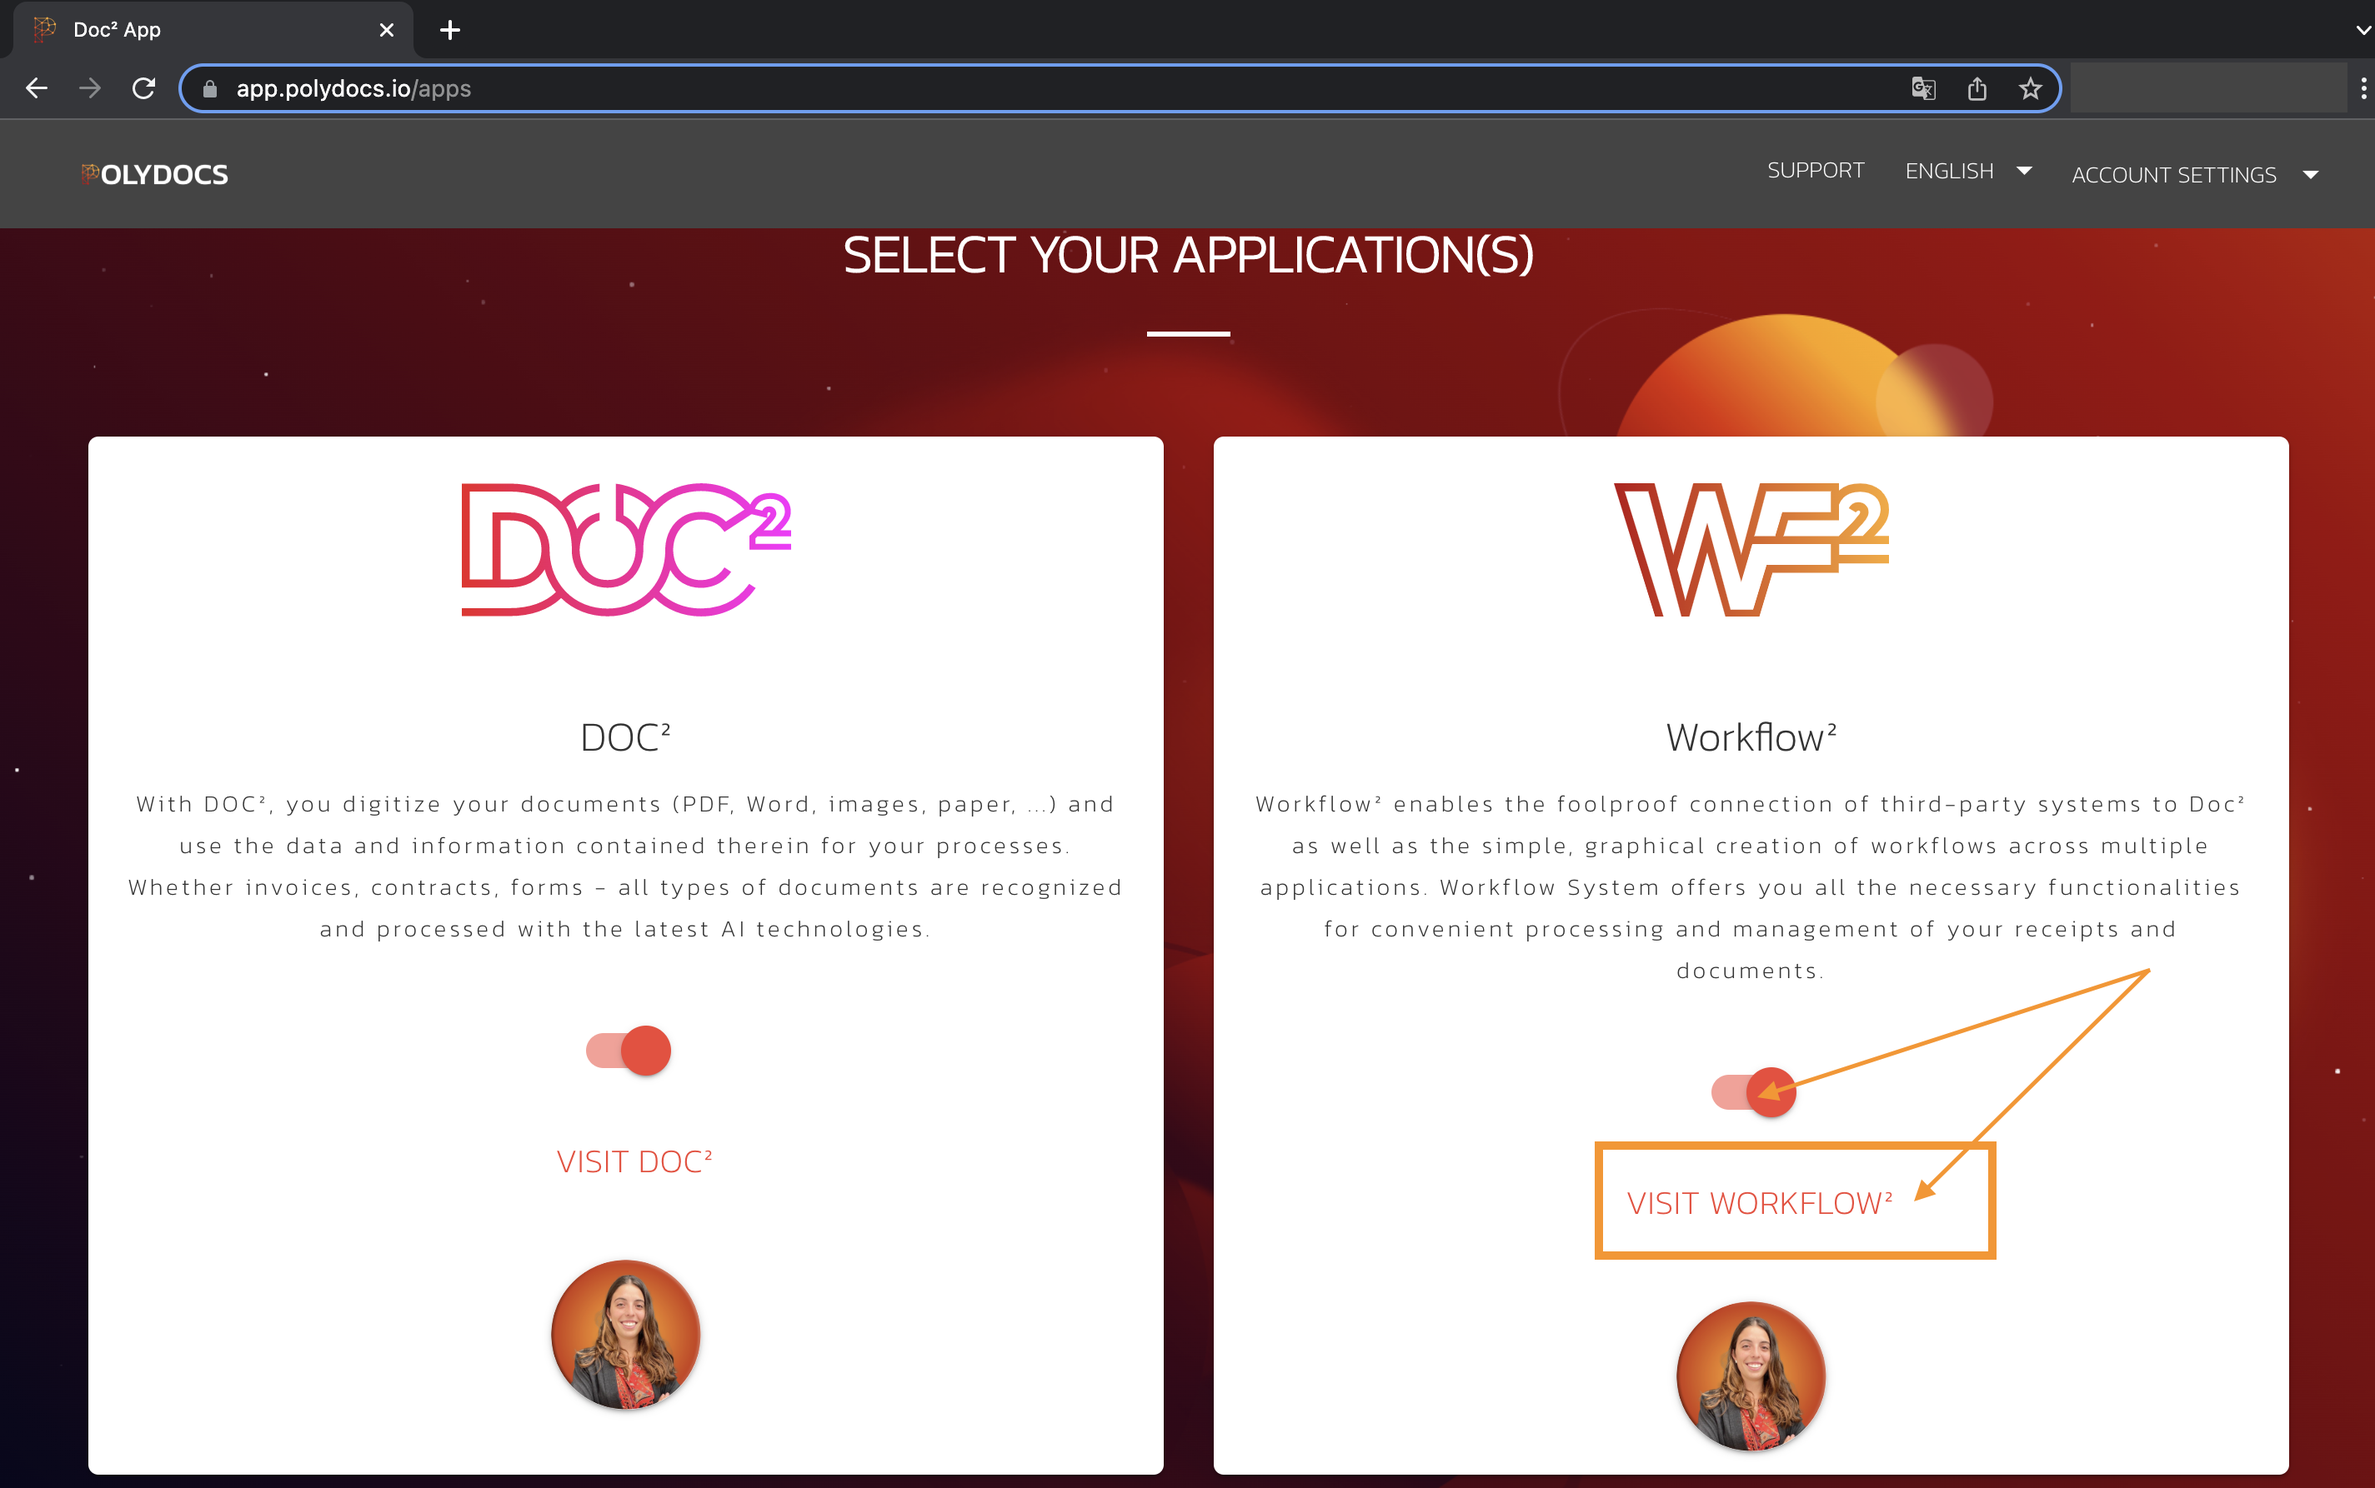
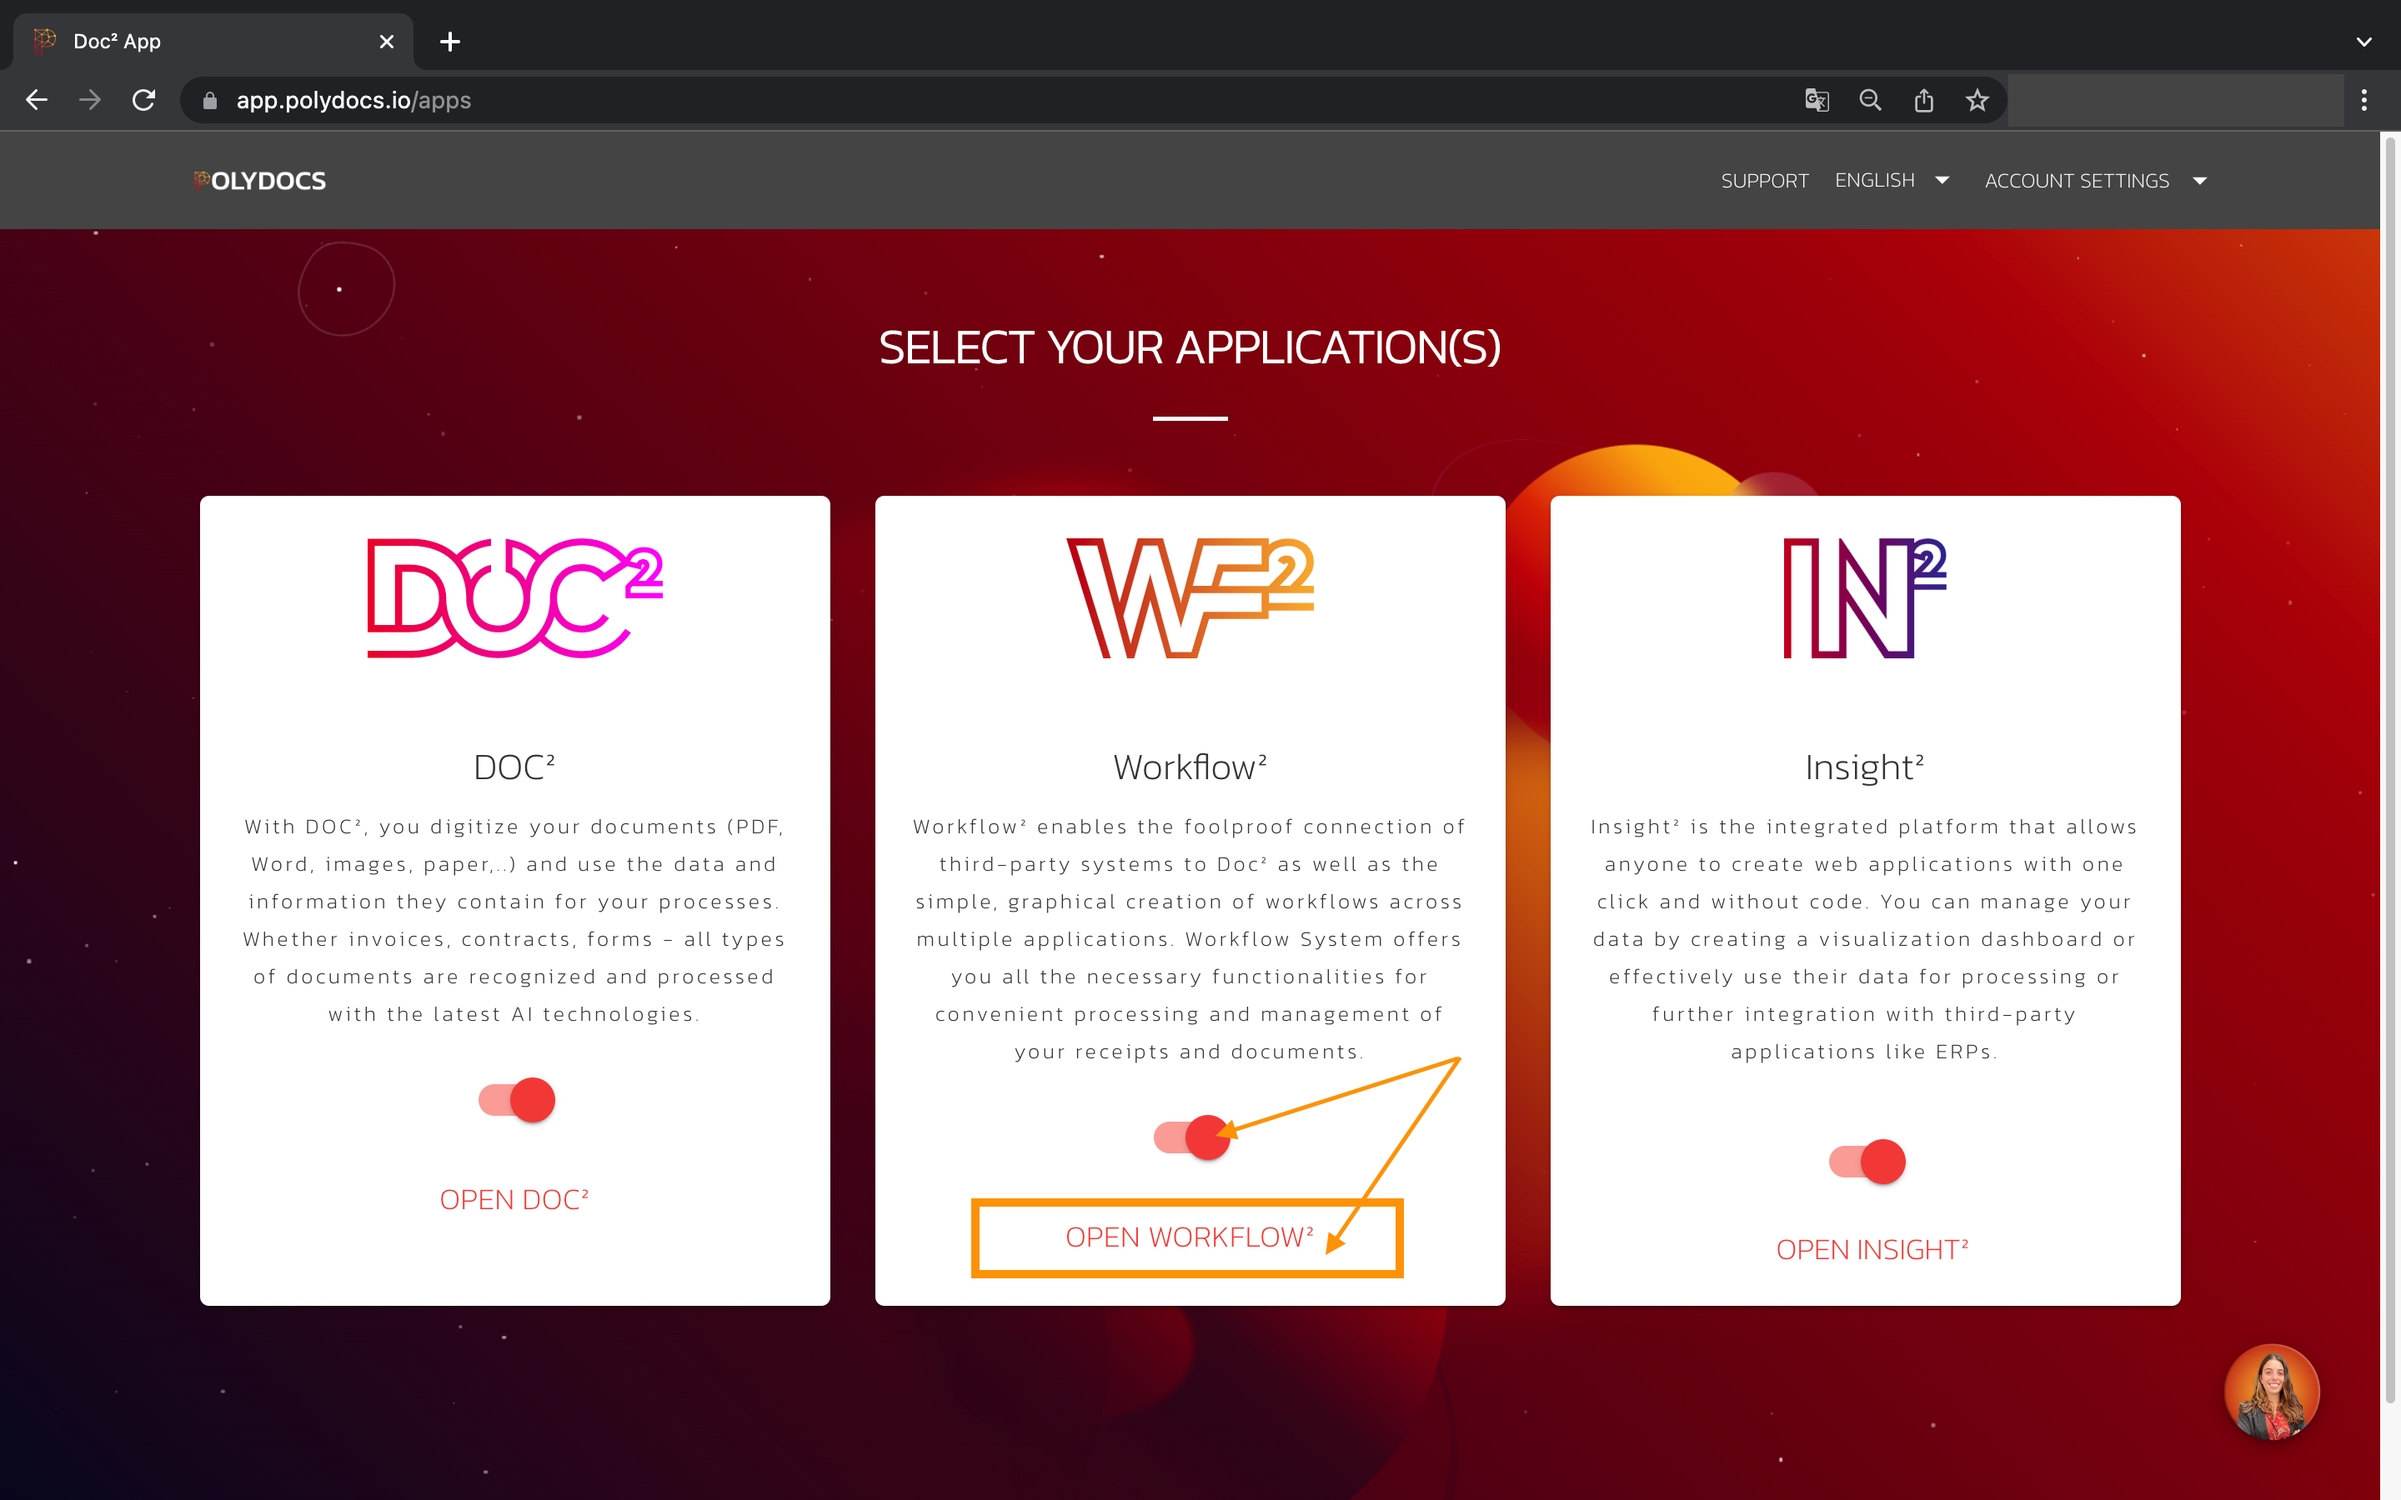
fix wf2

diff --git a/docs/workflow/quickstart.md b/docs/workflow/quickstart.md
@@ -12,7 +12,7 @@ tags:
 
 Go to APPS 
 ![APPS](/_images/workflows/workflows/WF_TryItOut_0.png)
-and after activating Workflow² by clicking the button, go to VISIT WORKFLOW²
+and after activating Workflow² by clicking the button, go to OPEN WORKFLOW²
 
 ![Start](/_images/workflows/workflows/WF_TryItOut_1.png)
 
